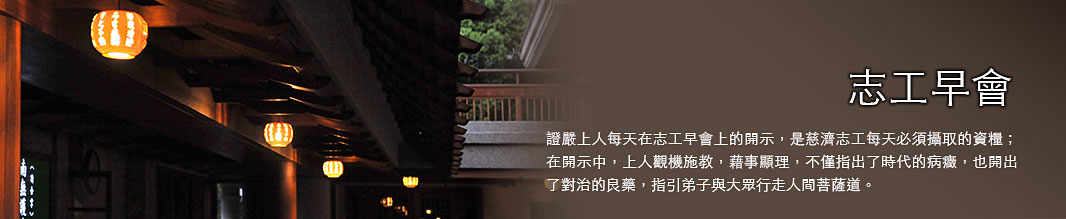
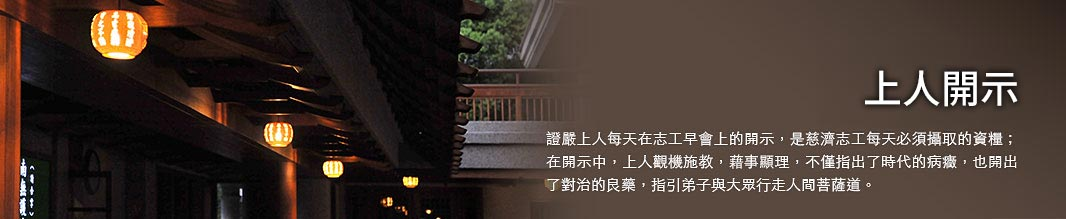
fix

diff --git a/src/app/master-talk/page.js b/src/app/master-talk/page.js
@@ -4,7 +4,7 @@ import { Suspense } from "react";
 export async function generateMetadata({ params }, parent) {
   return {
     metadataBase: new URL(`${process.env.NEXT_PUBLIC_URL}/volunteer-morning`),
-    title: `志工早會 - 慈濟資訊網`,
+    title: `上人開示 - 慈濟資訊網`,
     description: `證嚴上人每天在志工早會的開示，是慈濟志工每天必須攝取的資糧；在開示中，上人觀機施教，藉事顯理，指引弟子與大眾行走人間菩薩道。`,
     openGraph: {
       images: ['https://imagedelivery.net/oK0RK5YvW3bVFXgaGP6foQ/032741ee-fac7-44b6-3cea-649da4b8ff00/2K'],

diff --git a/src/middleware.js b/src/middleware.js
@@ -5,7 +5,8 @@ import { getRedirectJson } from "./api/routeApi";
 export const config = {
   matcher: [
     "/article/:path*",
-    "/tag/:path*"
+    "/tag/:path*",
+    "/volunteer-morning"
   ],
 };
 
@@ -78,6 +79,10 @@ export async function middleware(request) {
     if (match && redirectRef) {
       return Response.redirect(`${process.env.NEXT_PUBLIC_URL}/${redirectRef?.redirect_link}`, redirectRef?.redirect_type);
     }
+  }
+
+  if (pathname.startsWith("/volunteer-morning")) {
+    return Response.redirect(`${process.env.NEXT_PUBLIC_URL}/master-talk`, 301);
   }
 
   // Continue with the request

diff --git a/src/config/routes.js b/src/config/routes.js
@@ -1,6 +1,6 @@
 const routes = {
   SEARCH: "/search", // 搜尋頁
-  VOLUNTEER_MORNING_MEETING: "/volunteer-morning", // 志工早會
+  VOLUNTEER_MORNING_MEETING: "/master-talk", // 志工早會
   COLUMN_ARTICLE: "/column-article", // 專欄文章
   FOUNDATION_ANNOUNCEMENT: "/foundation-announcement", // 基金會公告
   THE_BASE_MESSAGE: "/the-base-messages", // 各據點消息

diff --git a/src/app/api/server-sitemap-0.xml/route.js b/src/app/api/server-sitemap-0.xml/route.js
@@ -18,7 +18,7 @@ export async function GET(request) {
       changefreq: "daily",
     },
     {
-      loc: `${process.env.NEXT_PUBLIC_URL}/volunteer-morning`,
+      loc: `${process.env.NEXT_PUBLIC_URL}/master-talk`,
       lastmod: new Date().toISOString(),
       priority: 0.8,
       changefreq: "daily",

diff --git a/src/app/master-talk/client.js b/src/app/master-talk/client.js
@@ -71,7 +71,7 @@ export default function Page() {
               link: '/'
             },
             {
-              label: '志工早會',
+              label: '上人開示',
               link: ''
             },
           ]} />
